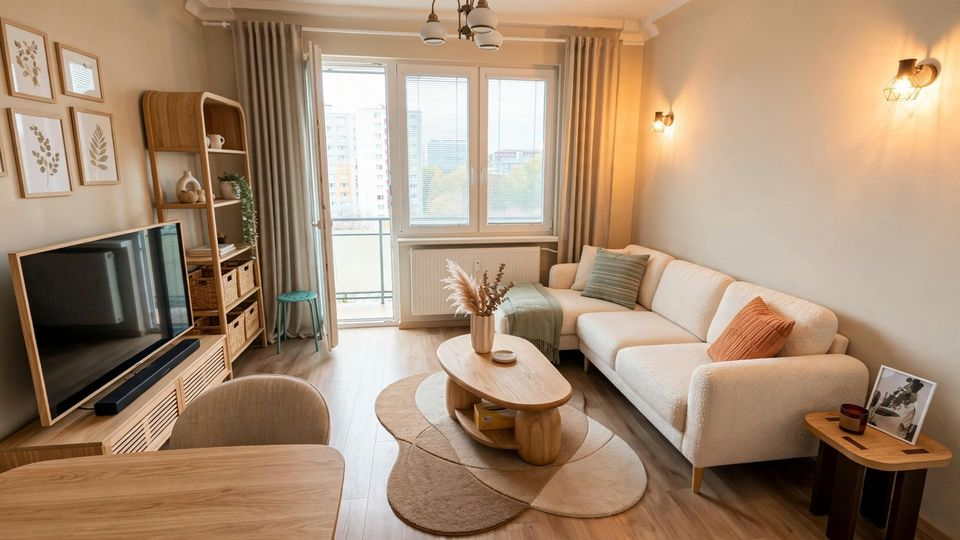
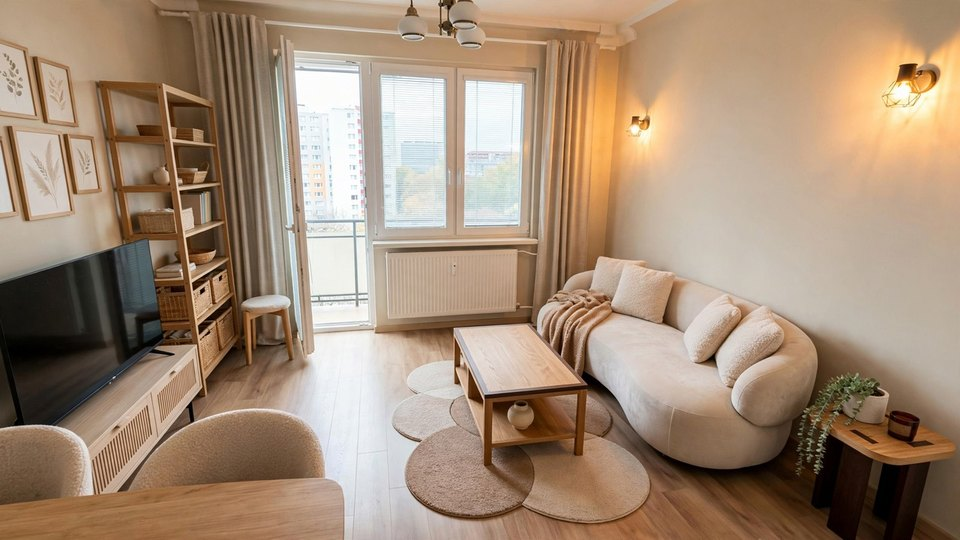
Home demo: step 3 shows the Alba sofa in a Japandi look instead of the rug

diff --git a/web/components/HowItWorks.tsx b/web/components/HowItWorks.tsx
@@ -10,7 +10,7 @@ import "./how-it-works.css";
 //                    shutter, a flash; SAM's finds land on the photo
 // 2 Pick a style:    a tap on Japandi; the button takes the style's name; a tap
 // 3 See it, buy it:  the divider travels to the middle and uncovers the
-//                    restyled room; the real rug in it rises in with its price
+//                    restyled room; the real sofa in it rises in with its price
 //
 // Real strings: four object names, four style names, the button, the look's
 // title, the product and its price. The rest is image or shape.
@@ -26,7 +26,7 @@ type S = {
   picked: boolean; // Japandi tapped
   named: boolean; // the button says "Show my room in Japandi"
   reveal: number; // divider position, % from the left (100 = all before)
-  product: boolean; // the rug's card is in
+  product: boolean; // the sofa's card is in
 };
 
 export const STEPS = [
@@ -177,7 +177,7 @@ function See({ s }: { s: S }) {
   return (
     <div className="how-see">
       <div className="how-label">Your room, restyled</div>
-      <div className="how-title">Warm Japandi</div>
+      <div className="how-title">Japandi Calm</div>
       <div className="how-compare">
         {/* eslint-disable-next-line @next/next/no-img-element */}
         <img src="/demo/room-japandi.jpg" alt="" />
@@ -188,10 +188,10 @@ function See({ s }: { s: S }) {
       <Collapse open={s.product} reveal="drop">
         <div className="how-product">
           {/* eslint-disable-next-line @next/next/no-img-element */}
-          <img src="/demo/rug.jpg" alt="" />
+          <img src="/demo/sofa.jpg" alt="" />
           <span className="how-product__text">
-            <span className="how-product__name">Denton wool rug</span>
-            <span className="how-product__price">€159</span>
+            <span className="how-product__name">Alba 2-seater sofa</span>
+            <span className="how-product__price">€799</span>
           </span>
           <span className="how-buy" data-target="buy">
             Buy

diff --git a/web/components/HowItWorks.REHEARSAL.md b/web/components/HowItWorks.REHEARSAL.md
@@ -13,7 +13,7 @@ phone, played as a carousel with step tabs below the stage:
 2. Pick a style: a tap on Japandi (tile goes ink), the button's label changes
    in its own slot (`States`), a tap on the button.
 3. See it, buy it: the divider travels from the right edge to the middle and
-   uncovers the restyled room (look 4c3e4a22), then the Denton rug's card
+   uncovers the restyled room (look 2f76a5db, Japandi Calm), then the Alba sofa's card
    drops in (`Collapse reveal="drop"`) and its Buy is tapped. Holds ~2 s.
 
 Screens swap like one app: the body crossfades with an 8 pt rise; the phone
